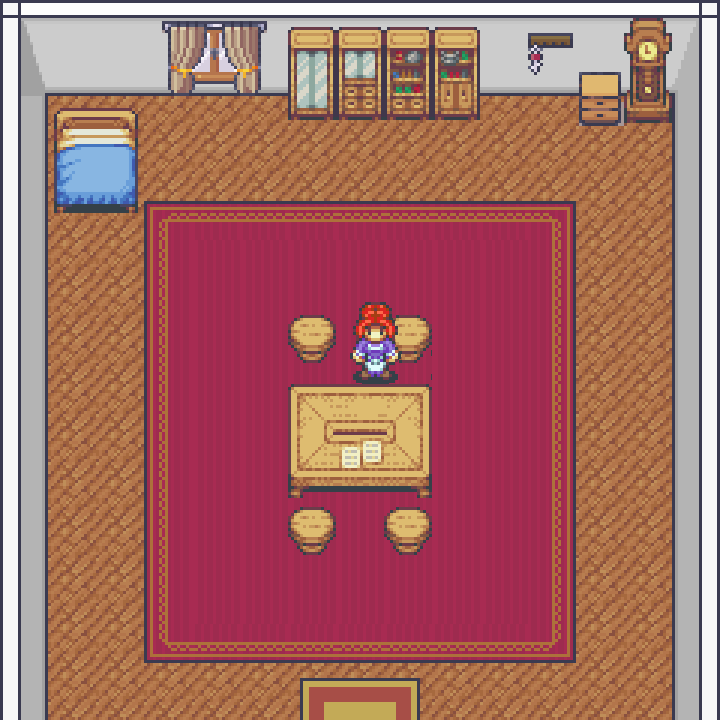
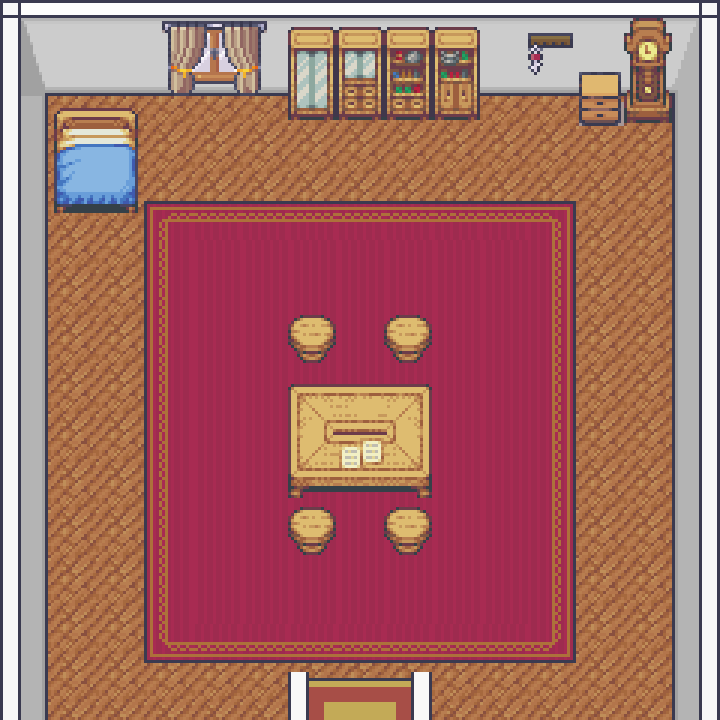
first house girl gone fixed

Changed region(s): [[0.4889, 0.3972, 0.55, 0.55], [0.55, 0.9167, 0.6111, 1.0], [0.3972, 0.9167, 0.4278, 1.0]]

diff --git a/client/src/components/maps/farmMap.js b/client/src/components/maps/farmMap.js
@@ -412,8 +412,8 @@ const FarmMap = (props) => {
     ],
     [
       0, 0, 0, 0, 0, 0, 0, 0, 0, 0, 1265, 0, 0, 1597, 1598, 0, 0, 0, 0, 0, 0,
-      4015, 4016, 4016, 1442, 1947, 0, 0, 0, 522, 0, 0, 1915, 0, 0, 0, 747, 0,
-      0, 0, 0, 0, 0, 0, 0, 0, 0, 0, 0, 1266, 0, 0, 0, 0, 0, 0, 0, 0, 0, 0,
+      4015, 4016, 4016, 1442, 1947, 0, 0, 0, 0, 0, 0, 1915, 0, 0, 0, 747, 0, 0,
+      0, 0, 0, 0, 0, 0, 0, 0, 0, 0, 1266, 0, 0, 0, 0, 0, 0, 0, 0, 0, 0,
     ],
     [
       0, 0, 0, 0, 0, 0, 0, 0, 0, 0, 1265, 0, 0, 1613, 1614, 0, 0, 0, 0, 0, 0,
@@ -516,6 +516,7 @@ const FarmMap = (props) => {
       0, 0, 0, 0, 0, 0, 0, 0, 0, 0,
     ],
   ];
+
 
   console.log('COORDINATE', yPlayerIndex.current, xPlayerIndex.current);
   console.log(

diff --git a/client/src/App.css b/client/src/App.css
@@ -107,8 +107,8 @@ body {
   border: 3px solid;
   box-shadow: 1px -2px 10px 5px rgba(0, 0, 0, 0.5);
   opacity: 0.94;
-  bottom: 23px;
-  width: 90%;
+  bottom: 22px;
+  width: 93%;
   height: 25%;
   color: rgb(0, 0, 0);
   background: rgb(173, 173, 173);
@@ -116,10 +116,8 @@ body {
 }
 
 p {
-  /* font-family: SF Pro Display, SF Pro Icons, Helvetica Neue, Helvetica, Arial, sans-serif; */
   font-family: Pokemon-Classic;
   color: rgb(0, 0, 0);
-  /* font-weight: 100; */
   font-size: 25px;
 }
 
@@ -130,7 +128,6 @@ p {
   typing 3.5s steps(40, end),
   .75s step-end infinite;
 }
-
 
 @keyframes typing {
   from {

diff --git a/client/src/FarmMap.css b/client/src/FarmMap.css
@@ -36,9 +36,7 @@ body {
 
 .mapF {
   image-rendering: pixelated;
-   /* max-height: 50000px;
-  min-width: 50000px; */
-  background-image: url("./assets/maps/Farm_map_ROCK PATH w grid.png");
+  background-image: url("./assets/maps/Farm_map_ROCK PATH no grid.png");
   background-size: 3840px; 
   width: calc(150 * var(--grid-cell));
   height: calc(115 * var(--grid-cell)); 
@@ -60,8 +58,6 @@ body {
   width: calc(var(--grid-cell)* 2);
   height: calc(var(--grid-cell)* 2);
   overflow: hidden;
-  /* margin-top: -58px;
-    margin-left: -45px; */
 }
 
 .character_spritesheet {

diff --git a/client/src/App.js b/client/src/App.js
@@ -63,7 +63,7 @@ function App() {
 
   //delete Later
 const [demonTeam, setDemonTeam]= useState([DemonObjects.Player, DemonObjects.Dragonite, DemonObjects.Haku, DemonObjects.Zabuza, DemonObjects.Naruto])
-const [current, setCurrent] = useState('farmMap');
+const [current, setCurrent] = useState('indoorHouse10');
 const [tempCurrent, setTempCurrent] = useState(null)
 const [previous,setPrevious]= useState(null)
 
